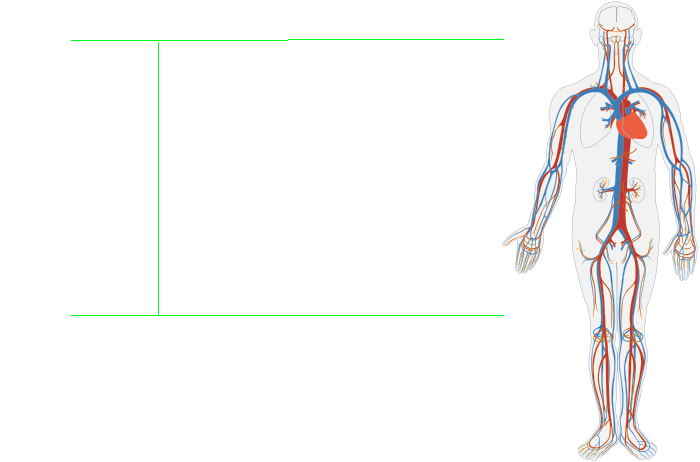
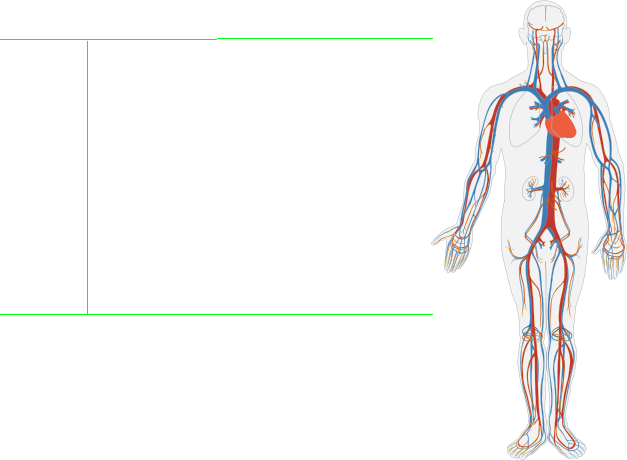
All controls editing flow values.  Score related to heart rate. Need to add a set level.  Slow down the flow rate, and give the graph wider range.

Changed region(s): [[0.6667, 0.0, 1.0, 1.0], [0.0909, 0.0609, 0.7273, 0.7]]

diff --git a/BloodFlow/javascript/main.js b/BloodFlow/javascript/main.js
@@ -11,7 +11,7 @@ var currentObjective = 70;
 
 //This is the submission of score section.  
 function submitScore(value){
-	$.post("http://gamemetrics.otago.ac.nz/scores.php?score="+document.score.value+"level="+levelNumber, {score: document.score.value, level: levelNumber} );
+	$.post("http://gamemetrics.otago.ac.nz/scores.php?score="+document.score.value+"&level="+levelNumber, {score: document.score.value, level: levelNumber} );
 	console.debug("http://gamemetrics.otago.ac.nz/scores.php?score="+document.score.value);
 }
 
@@ -25,22 +25,30 @@ $('#play').click(function() {running=!running; $('#play').button("option", "labe
 
 
 
-var Control = function (rectCont, rectDest)
+var Control = function (rectCont, rectDest, slider)
 {
 	this.radius = 20; //outside radius 
 	this.flow = 10; //this is the current flow through the control
 	
-    Control.superConstructor.apply(this, arguments);
+   Control.superConstructor.apply(this, arguments);
    this.originalImage = gamejs.image.load("images/Artery.png");
    this.dims = this.originalImage.getSize();
    this.image = gamejs.transform.scale(this.originalImage, [1,1]);
    this.rect = gamejs.Rect(rectCont);
    this.rectCont = rectCont;
    var rectD = [];
+   slider.slider({ orientation: "vertical", min : 2 , max: 20, value: 10 });
+   slider.slider({
+   	   slide: function(event, ui) {
+   	     console.debug(this, event, ui);
+   	     document.gameState.controls.updateFlow(this.id, ui.value);
+   	   }
+   	});
+
    rectD[0] =rectCont[0]+2;
    rectD[1] =rectCont[1]+this.radius;
   draw.circle(gamejs.backgroundImage, "#ff3366",rectCont, this.radius,  0);
-  draw.circle(gamejs.backgroundImage, "#fffff",rectCont, this.flow,  0);
+  draw.circle(gamejs.backgroundImage, "#ffffff",rectCont, this.flow,  0);
 
   draw.line(gamejs.backgroundImage, "#ff3366",rectD,rectDest,2); //[this.rect.x+2, this.rect.y-radius], [this.rectD.x, this.rectD.y], 2);
    rectD[1] =rectCont[1]-this.radius;
@@ -50,10 +58,13 @@ var Control = function (rectCont, rectDest)
 
 gamejs.utils.objects.extend(Control, gamejs.sprite.Sprite);
 Control.prototype.update = function(msDuration) {
+	  draw.circle(gamejs.backgroundImage, "#ffffff",this.rectCont, this.radius+1,  0);
 	  draw.circle(gamejs.backgroundImage, "#ff3366",this.rectCont, this.radius,  0);
-	  draw.circle(gamejs.backgroundImage, "#ffffff",this.rectCont, this.flow,  0);
+	  draw.circle(gamejs.backgroundImage, "#cccccc",this.rectCont, this.flow,  0);
 };
-
+Control.prototype.setFlow = function(value) {
+	  this.flow = Math.max(Math.min(value,radius-2, 2));
+};
 
 
  
@@ -67,14 +78,19 @@ var Heart = function (maxrate)
     this.beatDuration = 4;
     this.rect= new gamejs.Rect([10,70]);
     
-    $("#slider").slider({ orientation: "vertical", min : 20 , max: maxrate, value: this.rate });
-    $("#slider").slider({
+    $("#heartRateSlider").slider({ orientation: "vertical", min : 20 , max: maxrate, value: this.rate });
+    $("#heartRateSlider").slider({
     	   slide: function(event, ui) {
     		// console.debug(ui);
     	     document.heart.rateGoal = ui.value;
     	   }
     	});
-   // ever ship has its own scale
+    
+    
+    
+    
+    
+    // ever ship has its own scale
    this.originalImage = gamejs.image.load("images/heart.png");
    this.dims = this.originalImage.getSize();
    this.image = gamejs.transform.scale(this.originalImage, [this.dims[0] * (0.4), this.dims[1] *  (0.4)]);
@@ -168,14 +184,24 @@ rates.lowerlegrate = [];
 rates.upperlegrate = [];
 
 var controls = new Object();
-controls.head = new Control([350,80], [620,70]);
+controls.head = new Control([200,80], [550,70],$("#artHead"));
 //controls.legs = new Control([300,120], [620,70]);
-controls.arms = new Control([300,140], [570,110]);
-controls.lowerleg = new Control([300,220], [600,250]);
-controls.upperleg = new Control([350,270], [600,320]);
+controls.arms = new Control([150,140], [495,110],$("#artArms"));
+controls.upperLeg = new Control([150,220], [530,250],$("#artUpperLeg"));
+controls.lowerLeg = new Control([200,270], [530,320],$("#artLowerLeg"));
 
 gameState.rates=rates;
+gameState.controls = controls;
 
+gameState.controls.updateFlow = function (id,value){
+	console.debug(id,value,controls);
+	if (id == "artHead" ) controls.head.flow = value;
+	if (id == "artArms" ) controls.arms.flow = value;
+	if (id == "artLowerLeg" ) controls.lowerLeg.flow = value;
+	if (id == "artUpperLeg" ) controls.upperLeg.flow = value;
+	console.debug(controls.head.flow);
+	
+};
 
  //   chart.addTimeSeries(bloodflow1, { strokeStyle: 'rgba(0, 255, 0, 1)', fillStyle: 'rgba(0, 255, 0, 0.2)', lineWidth: 4 });
    
@@ -204,6 +230,8 @@ function basic(container) {
    sprites.add(score);
    sprites.add(controls.head);
    sprites.add(controls.arms);
+   sprites.add(controls.upperLeg);
+   sprites.add(controls.lowerLeg);
 
 
    sprites.update(0);
@@ -223,32 +251,71 @@ function basic(container) {
    display.blit(gamejs.backgroundImage);
    sprites.draw(display);
    
+   
+   var events = gamejs.event.get();
+   
+   events.forEach(function(event) {
+		console.debug(event);
+      if (event.type === gamejs.event.MOUSE_DOWN) {
+        var hitTest = sprites.collidePoint(event.pos);
+    	if (hitTest.length > 0){
+    		console.debug(hitTest);
+        	hitTest[0].setRate(15);
+        }
+      }
+   });
+   
+   
     function tick(msDuration) {
-    if(running){
-// 	bloodflow1.append(heart.rate, Math.random() * 1000);
-        frameNumber +=1;
         sprites.update(msDuration);
-        score.update(msDuration);
-        if (rates.headrate.length>30) rates.headrate.shift();
-        rates.headrate.push([frameNumber,heart.rate]); //Update the graph with current value of heart
-        if (rates.legsrate.length>60) rates.legsrate.shift();
-        rates.legsrate.push([frameNumber+30,currentObjective]); //Update the graph with current value of heart
+  	
+    if(running){
+//    	   var events = gamejs.event.get();
+ /*   	   
+    	   events.forEach(function(event) {
+    	      if (event.type === gamejs.event.MOUSE_DOWN) {
+      			console.debug(event);
+    	        var hitTest = sprites.collidePoint();
+    	    	if (hitTest.length > 0){
+    	    		console.debug(hitTest);
+    	        	hitTest[0].setRate(15);
+    	        }
+    	      }
+    	   });
+ */   	
+        frameNumber +=1;
         
-        if(Math.random() < 0.02) currentObjective = 20+(Math.random()*160);
+        score.update(msDuration);
+        
+        if (rates.headrate.length>30) {
+        	rates.headrate.shift();
+        }
+
+        rates.headrate.push([frameNumber,heart.rate]); //Update the graph with current value of heart
+
+        if (rates.legsrate.length>60) {
+        	rates.legsrate.shift();
+        }
+        if (frameNumber < 500-30){
+        	rates.legsrate.push([frameNumber+30,currentObjective]); //Update the graph with current value of heart
+        }
+        if(Math.random() < 0.02) {
+        	currentObjective = 20+(Math.random()*160);
+        }
         
         
 	    basic(graphContainer);
 //        scoreText = textcontainer.render('Score '+heart.rate);
 //        scoreText.rect = new gamejs.Rect([500,10]);
+	    if (frameNumber > 500){
+        	running = false;
+        	submitScore();
+        }
+       } // end the running code
         display.clear();
         display.blit(gamejs.backgroundImage);
         sprites.draw(display);
         //score.draw(display);
-        if (frameNumber > 500){
-        	running = false;
-        	submitScore();
-        }
-       }
       return;
     };
     

diff --git a/BloodFlow/public/gamejs.mini.js b/BloodFlow/public/gamejs.mini.js
@@ -13,7 +13,7 @@ k=c.getSize();if(!d.width)d.width=k[0];if(!d.height)d.height=k[1]}else d=d&&d in
 d.left,d.top);e=g.multiply(e,c._matrix);this.context.transform(e[0],e[1],e[2],e[3],e[4],e[5]);c.getRect();this.context.globalAlpha=c._blitAlpha;this.context.drawImage(c.canvas,a.left,a.top,a.width,a.height,0,0,d.width,d.height);this.context.restore()};k.prototype.getSize=function(){return[this.canvas.width,this.canvas.height]};k.prototype.getRect=function(){return new b([0,0],this.getSize())};k.prototype.fill=function(b){this.context.save();this.context.fillStyle=b||"#000000";this.context.fillRect(0,
 0,this.canvas.width,this.canvas.height);this.context.restore()};k.prototype.clear=function(){var b=this.getSize();this.context.clearRect(0,0,b[0],b[1])};f.accessors(k.prototype,{rect:{get:function(){return this.getRect()}},context:{get:function(){return this._context}},canvas:{get:function(){return this._canvas}}});k.prototype.clone=function(){var b=new k(this.getRect());b.blit(this);return b};k.prototype.getAlpha=function(){return 1-this._blitAlpha};k.prototype.setAlpha=function(b){if(!isNaN(b)&&
 !(b<0||b>1))return this._blitAlpha=1-b,1-this._blitAlpha};k.prototype.getImageData=function(){var b=this.getSize();return this.context.getImageData(0,0,b[0],b[1])};a.display=j("./gamejs/display");a.draw=j("./gamejs/draw");a.event=j("./gamejs/event");a.font=j("./gamejs/font");a.http=j("./gamejs/http");a.image=j("./gamejs/image");a.mask=j("./gamejs/mask");a.mixer=j("./gamejs/mixer");a.sprite=j("./gamejs/sprite");a.surfacearray=j("./gamejs/surfacearray");a.time=j("./gamejs/time");a.transform=j("./gamejs/transform");
-a.utils={arrays:j("./gamejs/utils/arrays"),objects:j("./gamejs/utils/objects"),matrix:j("./gamejs/utils/matrix"),vectors:j("./gamejs/utils/vectors"),math:j("./gamejs/utils/math")};a.pathfinding={astar:j("./gamejs/pathfinding/astar")};var m=a,l={};a.ready=function(b){function c(){if(!document.body)return window.setTimeout(c,50);e=m.image.preload(l);try{a=m.mixer.preload(l)}catch(b){m.debug("Error loading audio files ",b)}window.setTimeout(d,50)}function d(){if(e()<1||a()<1)return window.setTimeout(d,
+a.utils={arrays:j("./gamejs/utils/arrays"),objects:j("./gamejs/utils/objects"),matrix:j("./gamejs/utils/matrix"),vectors:j("./gamejs/utils/vectors"),math:j("./gamejs/utils/math")};a.pathfinding={astar:j("./gamejs/pathfinding/astar")};var m=a,l={};a.ready=function(b){function c(){if(!document.body)return window.setTimeout(c,550);e=m.image.preload(l);try{a=m.mixer.preload(l)}catch(b){m.debug("Error loading audio files ",b)}window.setTimeout(d,550)}function d(){if(e()<1||a()<1)return window.setTimeout(d,
 100);m.display.init();m.image.init();m.mixer.init();m.event.init();b()}var a=null,e=null;m.time.init();window.setTimeout(c,13);return function(){if(e)return 0.5*e()+0.5*a();return 0.1}};a.preload=function(b){var c=window.$g&&window.$g.resourceBaseHref||".";c.slice(-1)=="/"&&(c=c.slice(0,c.length-1));b.forEach(function(b){l[b]=(window.$g&&window.$g.resourceBaseHref||".")+("/"+b).replace(/\/+/g,"/")},this)}}},["gamejs/utils/matrix","gamejs/utils/objects","gamejs/display","gamejs/draw","gamejs/event",
 "gamejs/font","gamejs/http","gamejs/image","gamejs/mask","gamejs/mixer","gamejs/sprite","gamejs/surfacearray","gamejs/time","gamejs/transform","gamejs/utils/arrays","gamejs/utils/vectors","gamejs/utils/math","gamejs/pathfinding/astar"]);
 require.define({"gamejs/transform":function(j,a){var h=j("../gamejs").Surface,g=j("./utils/matrix");j("./utils/math");var f=j("./utils/vectors");a.rotate=function(a,d){var c=a.getSize(),b=d*Math.PI/180,k=c;if(d%360!==0)var k=a.getRect(),k=[[-k.width/2,k.height/2],[k.width/2,k.height/2],[-k.width/2,-k.height/2],[k.width/2,-k.height/2]].map(function(c){return f.rotate(c,b)}),m=k.map(function(b){return b[0]}),l=k.map(function(b){return b[1]}),k=Math.min.apply(Math,m),m=Math.max.apply(Math,m),j=Math.min.apply(Math,

diff --git a/BloodFlow/jsgame.php b/BloodFlow/jsgame.php
@@ -3,52 +3,14 @@
 <head>
     <title>Blood Flow</title>
 <!-- Styling -->
-    <style type=text/css>
-        body{
-           background:#fff;
-           color:#222;
-           margin:1em 0 2em 6em;
-           padding:0;
-        }
-        #gjs-loader {
-            width: 50%;
-            height: 50%;
-            background: url('./public/ajax-loader.gif');
-        }    
-        #game-div {
-            width : 600px;
-            height: 384px;
-            margin: 8px auto;
-            position:absolute;
-        }
-        #game-canvas {
-            width : 600px;
-            height: 384px;
-            margin: 8px auto;
-        }
-        #graphcanvas-div {
-            width : 400px;
-            height: 150px;
-            position: absolute;
-            left: 30px;
-            top:-170px;
-            margin: 0px auto;
-        }
-        #slider {
-            width : 10px;
-            height: 100px;
-            position: absolute;
-            left: 40px;
-            top:150px;
-            margin: 0px auto;
-        }
-        
+	<link rel="stylesheet" type="text/css/" href="css/smoothness/jquery-ui-1.8.20.custom.css" />
+     <style type=text/css>
+          .ui-slider .ui-slider-handle { position: absolute; z-index: 2; width: 0.9em; height: 0.4em; cursor: pointer; };
+          .ui-slider-vertical .ui-slider-handle { left: -0.2em; margin-left: 0; margin-bottom: -.6em; };
     </style>
-    <link type="text/css" href="css/smoothness/jquery-ui-1.8.20.custom.css" rel="stylesheet" />
-    <style type=text/css>
-          .ui-slider .ui-slider-handle { position: absolute; z-index: 2; width: 0.9em; height: 0.4em; cursor: pointer; }
-          .ui-slider-vertical .ui-slider-handle { left: -0.2em; margin-left: 0; margin-bottom: -.6em; }
-    </style>
+   <link type="text/css" href="css/jsgame.css" rel="stylesheet" />
+ 
+   
     
 <!-- Start javascript/main.js -->
     <script src="./public/yabble.js"></script>
@@ -57,8 +19,6 @@
     <script src="./javascript/jquery-ui-1.8.20.custom.min.js"></script> 
    <script src="./javascript/heart.js"></script>
    <script type="text/javascript" src="./public/flotr2.min.js"></script>
-<!-- <script type="text/javascript" src="./public/smoothie.js"></script> -->
-
     <script>
         require.setModuleRoot('./javascript/');
         require.run('main')
@@ -68,26 +28,24 @@
 <body>
     <div>
         <div id="gjs-loader">
-         Loading...
+              <div id="loading">Loading: </div>
         </div>
         <div id="game-div">
              <div id="gamedcanvas-div">
                  <canvas id="gjs-canvas"></canvas>
-                 <div id="slider"></div>
+                 <div id="heartRateSlider"></div>
+                 <div id="artHead"></div>
+                 <div id="artArms"></div>
+                 <div id="artUpperLeg"></div>
+                 <div id="artLowerLeg"></div>
+                 <div id="submit"></div>
                  <button id="submitScore">Submit</button>
                  <button id="play">Play</button>
-                 <div id="artHead"></div>
-                 <div id="artLegs"></div>
-                 <div id="artArms"></div>
-                 <div id="submit"></div>
-             </div>
+            </div>
               <div id="graphcanvas-div">
                  <canvas id="graph-canvas"></canvas>
              </div>
         </div>
-	<p>
-           Powered by <a href="http://gamejs.org">GameJs</a>.
-        </p>
     </div>
 </body>
 </html>
